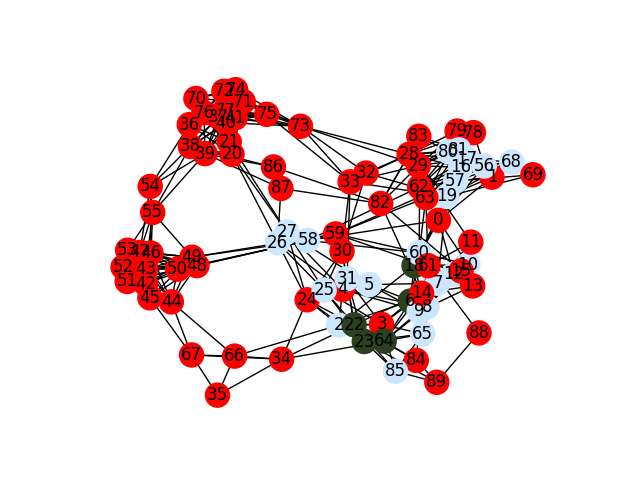
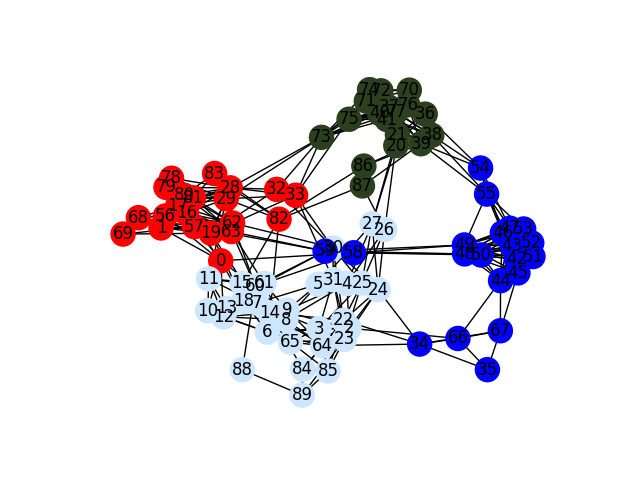
Clean up notebooks, max cut and brain problem separately

Changed region(s): [[0.1562, 0.1562, 0.875, 0.8438]]

diff --git a/QHyper/problems/brain_community_detection.py b/QHyper/problems/brain_community_detection.py
@@ -31,7 +31,7 @@ def safe_open(path, permission):
 
 
 
-class BrainCommunityDetection(Problem):
+class BrainCommunityDetectionProblem(Problem):
     def __init__(self, path, data_name, num_clusters):
             self.num_cases = num_clusters
             self.data_name = data_name
@@ -39,7 +39,7 @@ class BrainCommunityDetection(Problem):
             self.G = nx.from_numpy_matrix(self.A)
             self.B = nx.modularity_matrix(self.G)
             self._set_variables()
-            self._set_objective_function()
+            self.objective_function = [] # Due to sympy expression err
             self.objective_function = []
 
     
@@ -85,16 +85,16 @@ class BrainCommunityDetection(Problem):
         communities_class, mods_LCDA, times_LCDA, Ncomms, total_time = self.compare_with_louvain()
 
         headers = ['modularity_classical', 'modularity_quantum', 'communities', 'run_time_dwave', 'energy', 'counts', 'sample', 'communities_class_louvain', 'time_louvain']
-        # data = [nx_comm.modularity(self.G, communities_class),  nx_comm.modularity(self.G, communities), communities, run_time, energy, counts, sample, communities_class, total_time]
-        # with safe_open(f'{output_folder}/{self.data_name}run{self.num_cases}.csv', 'w') as file:
-        #     writer = csv.writer(file)
-        #     writer.writerow(headers)
-        #     writer.writerow(data)
+        data = [nx_comm.modularity(self.G, communities_class),  nx_comm.modularity(self.G, communities), communities, run_time, energy, counts, sample, communities_class, total_time]
+        with safe_open(f'{output_folder}/{self.data_name}run{self.num_cases}.csv', 'w') as file:
+            writer = csv.writer(file)
+            writer.writerow(headers)
+            writer.writerow(data)
 
         color_map = []
 
         for node in self.G: # 1, 2, 3
-            color_map.append(COLORS[sample['x'+str(node)]])
+            color_map.append(COLORS[sample[node]])
         f = plt.figure()
 
         nx.draw(self.G, node_color=color_map, with_labels=True, ax=f.add_subplot(111))
@@ -104,7 +104,7 @@ class BrainCommunityDetection(Problem):
 
         for i, node in enumerate(self.G):
             clus[i, 0] = node
-            clus[i, 1] = sample['x'+str(node)]
+            clus[i, 1] = sample[node]
 
         np.savetxt(f"{output_folder}/{self.data_name}graph{self.num_cases}.csv", clus, delimiter=",")
         

diff --git a/QHyper/solvers/converter.py b/QHyper/solvers/converter.py
@@ -6,6 +6,7 @@ from typing import Any, cast
 
 from QHyper.hyperparameter_gen.parser import Expression
 from QHyper.problems.base import Problem
+from QHyper.problems.brain_community_detection import BrainCommunityDetectionProblem
 from QHyper.util import QUBO, VARIABLES
 
 
@@ -94,4 +95,20 @@ class Converter:
             else:
                 dqm.set_linear(dqm.variables[u_idx], [bias for _ in range(num_cases)])
         
+        return dqm
+    
+
+    @staticmethod
+    def from_graph_to_dqm(problem: BrainCommunityDetectionProblem) -> DiscreteQuadraticModel:
+        dqm = dimod.DiscreteQuadraticModel()
+
+        for i in problem.G.nodes():
+            dqm.add_variable(problem.num_cases, label=i)
+
+        for i in problem.G.nodes():
+            for j in problem.G.nodes():
+                if i==j:
+                    continue
+                dqm.set_quadratic(i,j, {(c, c): ((-1)*problem.B[i,j]) for c in range(problem.num_cases)})
+
         return dqm

diff --git a/demo/community_detection_demo.py b/demo/community_detection_demo.py
@@ -1,7 +1,7 @@
 import csv
 import os
 import numpy as np
-from QHyper.problems.brain_community_detection import MaxCut, MaxCutProblem, BrainCommunityDetection
+from QHyper.problems.brain_community_detection import BrainCommunityDetectionProblem
 from QHyper.solvers.dqm import DQM
 import sympy
 from sympy.core.expr import Expr
@@ -48,7 +48,7 @@ def read_sympy_equation():
 
 
 def main():
-    brain = BrainCommunityDetection(path, data_name, num_cases)
+    brain = BrainCommunityDetectionProblem(path, data_name, num_cases)
     print(brain.objective_function)
 
     G = brain.G

diff --git a/QHyper/solvers/dqm/dqm.py b/QHyper/solvers/dqm/dqm.py
@@ -33,3 +33,18 @@ class DQM(Solver):
         sampleset = sampler.sample_dqm(dqm, self.time)
 
         return sampleset
+    
+    
+    def solve_from_graph(
+            self,
+            params_inits: dict[str, Any] = None,
+            hyper_optimizer: Optional[Optimizer] = None
+    ) -> Any:
+        converter = Converter()
+        sampler = LeapHybridDQMSampler(token=token)
+        
+        dqm = converter.from_graph_to_dqm(self.problem)
+
+        sampleset = sampler.sample_dqm(dqm, self.time)
+
+        return sampleset
